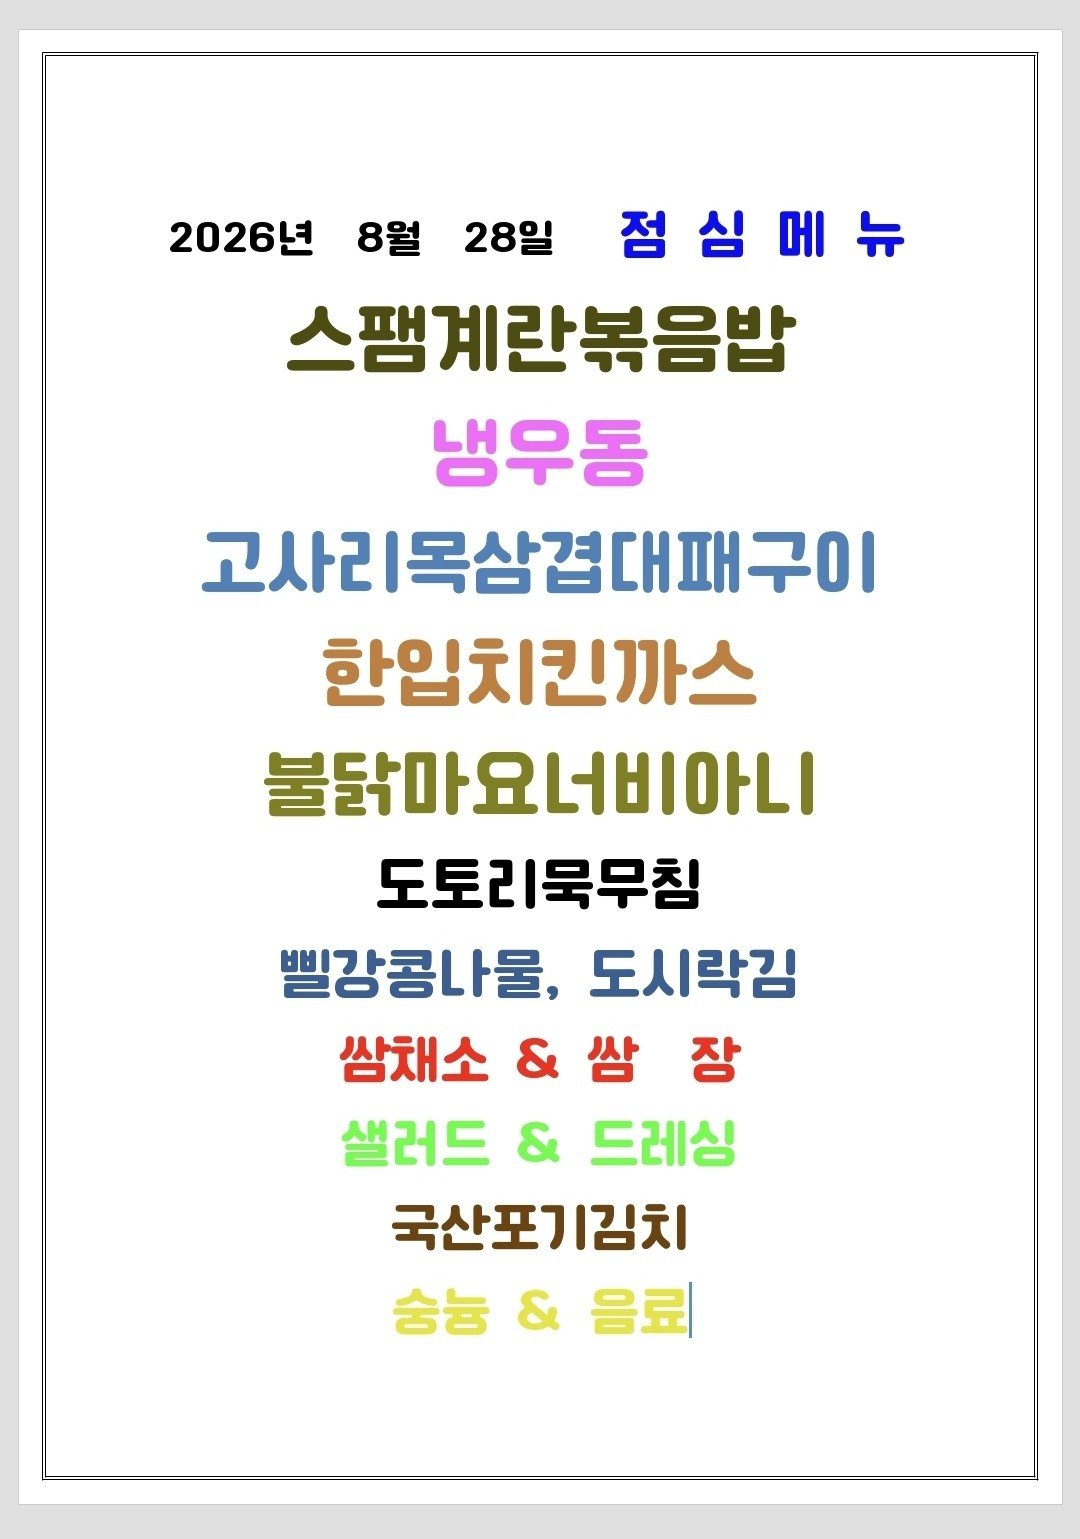
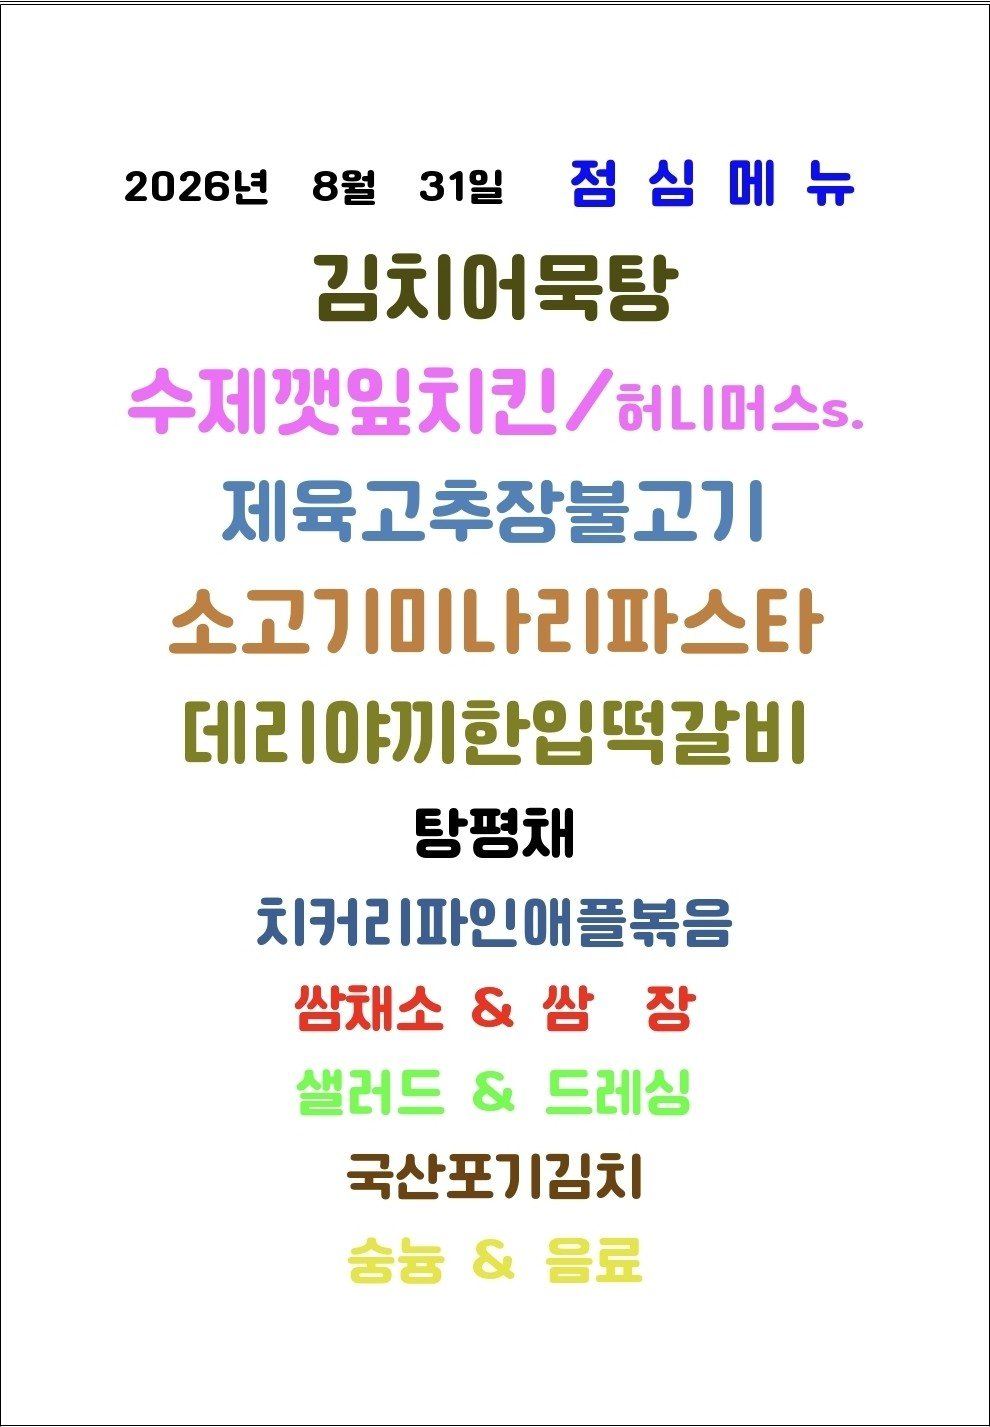
Update menu board assets

Changed region(s): [[0.1212, 0.0925, 0.8788, 0.925], [0.0, 0.0, 1.0, 1.0]]

diff --git a/menu-today/index.html b/menu-today/index.html
@@ -209,7 +209,7 @@
 
     <section class="meta-bar">
       <div class="meta-card"><div class="meta-label">기준 날짜</div><div class="meta-value">2026년 8월 31일 월요일</div></div>
-      <div class="meta-card"><div class="meta-label">최종 가져온 시간</div><div class="meta-value">2026-08-31 10:48:12</div></div>
+      <div class="meta-card"><div class="meta-label">최종 가져온 시간</div><div class="meta-value">2026-08-31 11:03:29</div></div>
       <div class="meta-card"><div class="meta-label">확인 완료</div><div class="meta-value">9개 식당</div></div>
       <div class="meta-card"><div class="meta-label">준비중</div><div class="meta-value">3개 채널</div></div>
     </section>
@@ -265,7 +265,7 @@
             <div class="sub">가산비즈니스센터</div>
           </div>
         </div>
-        <div class="menu-inline-image"><img src="./images/raonfood.png" alt="구내식당라온푸드 식단 이미지"></div><div class="info-note">오늘 메뉴 미수집 상태입니다.</div>
+        <div class="menu-inline-image"><img src="./images/raonfood.png" alt="구내식당라온푸드 식단 이미지"></div><ul><li>김지어묵탐</li><li>제육고주잠불고 )</li><li>AD )0나리파스탄</li><li>데리마껴한입떡갈</li><li>탕평재</li><li>지커리파인매플볶음</li><li>쌈재소 &amp; 쌈 at</li><li>럼지머묵탐</li><li>류고츠잔부구</li></ul>
       </article>
 
       <article class="restaurant-card">

diff --git a/guro-menu/index.html b/guro-menu/index.html
@@ -32,7 +32,7 @@
   </header>
   <section class="meta">
     <div><small>기준 날짜</small><strong>2026년 8월 31일 월요일</strong></div>
-    <div><small>최종 갱신</small><strong>2026-08-31 10:48:26</strong></div>
+    <div><small>최종 갱신</small><strong>2026-08-31 11:03:46</strong></div>
     <div><small>등록 식당</small><strong>5개</strong></div>
   </section>
   <div class="notice">공개 카카오 채널의 메뉴 이미지를 자동 수집하고 OCR로 정리합니다. 텍스트에 오타가 있을 수 있으니 식단 이미지를 함께 확인해 주세요.</div>
